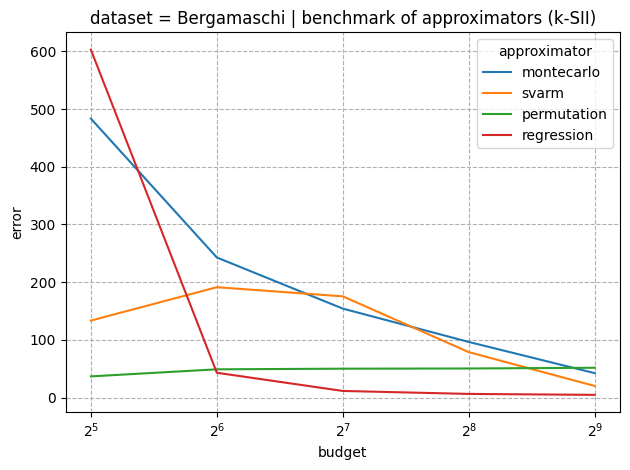
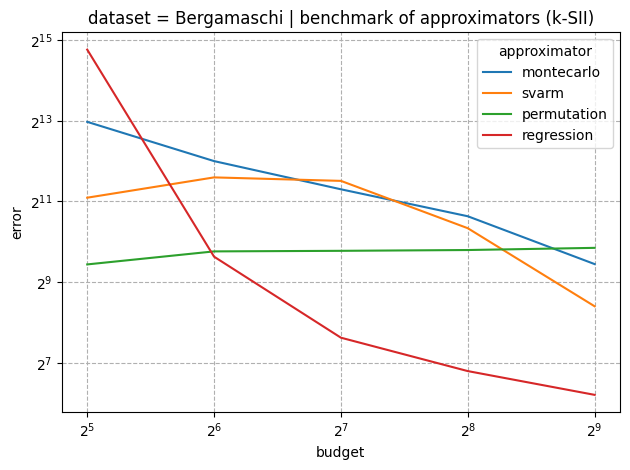
update benchmark plot to use whole data

diff --git a/experiments/run_approximators.py b/experiments/run_approximators.py
@@ -93,7 +93,7 @@ result.to_csv(f'results/{ds_name}_approximators.csv', index=False)
 # %%
 ax = sns.lineplot(result, x="budget", y="error", hue="approximator")
 ax.set_xscale('log', base=2)
-# ax.set_yscale('log', base=2)
+ax.set_yscale('log', base=2)
 plt.grid(True, which="both", ls="--")
 plt.title(f'dataset = {ds_name} | benchmark of approximators (k-SII)')
 plt.tight_layout()
